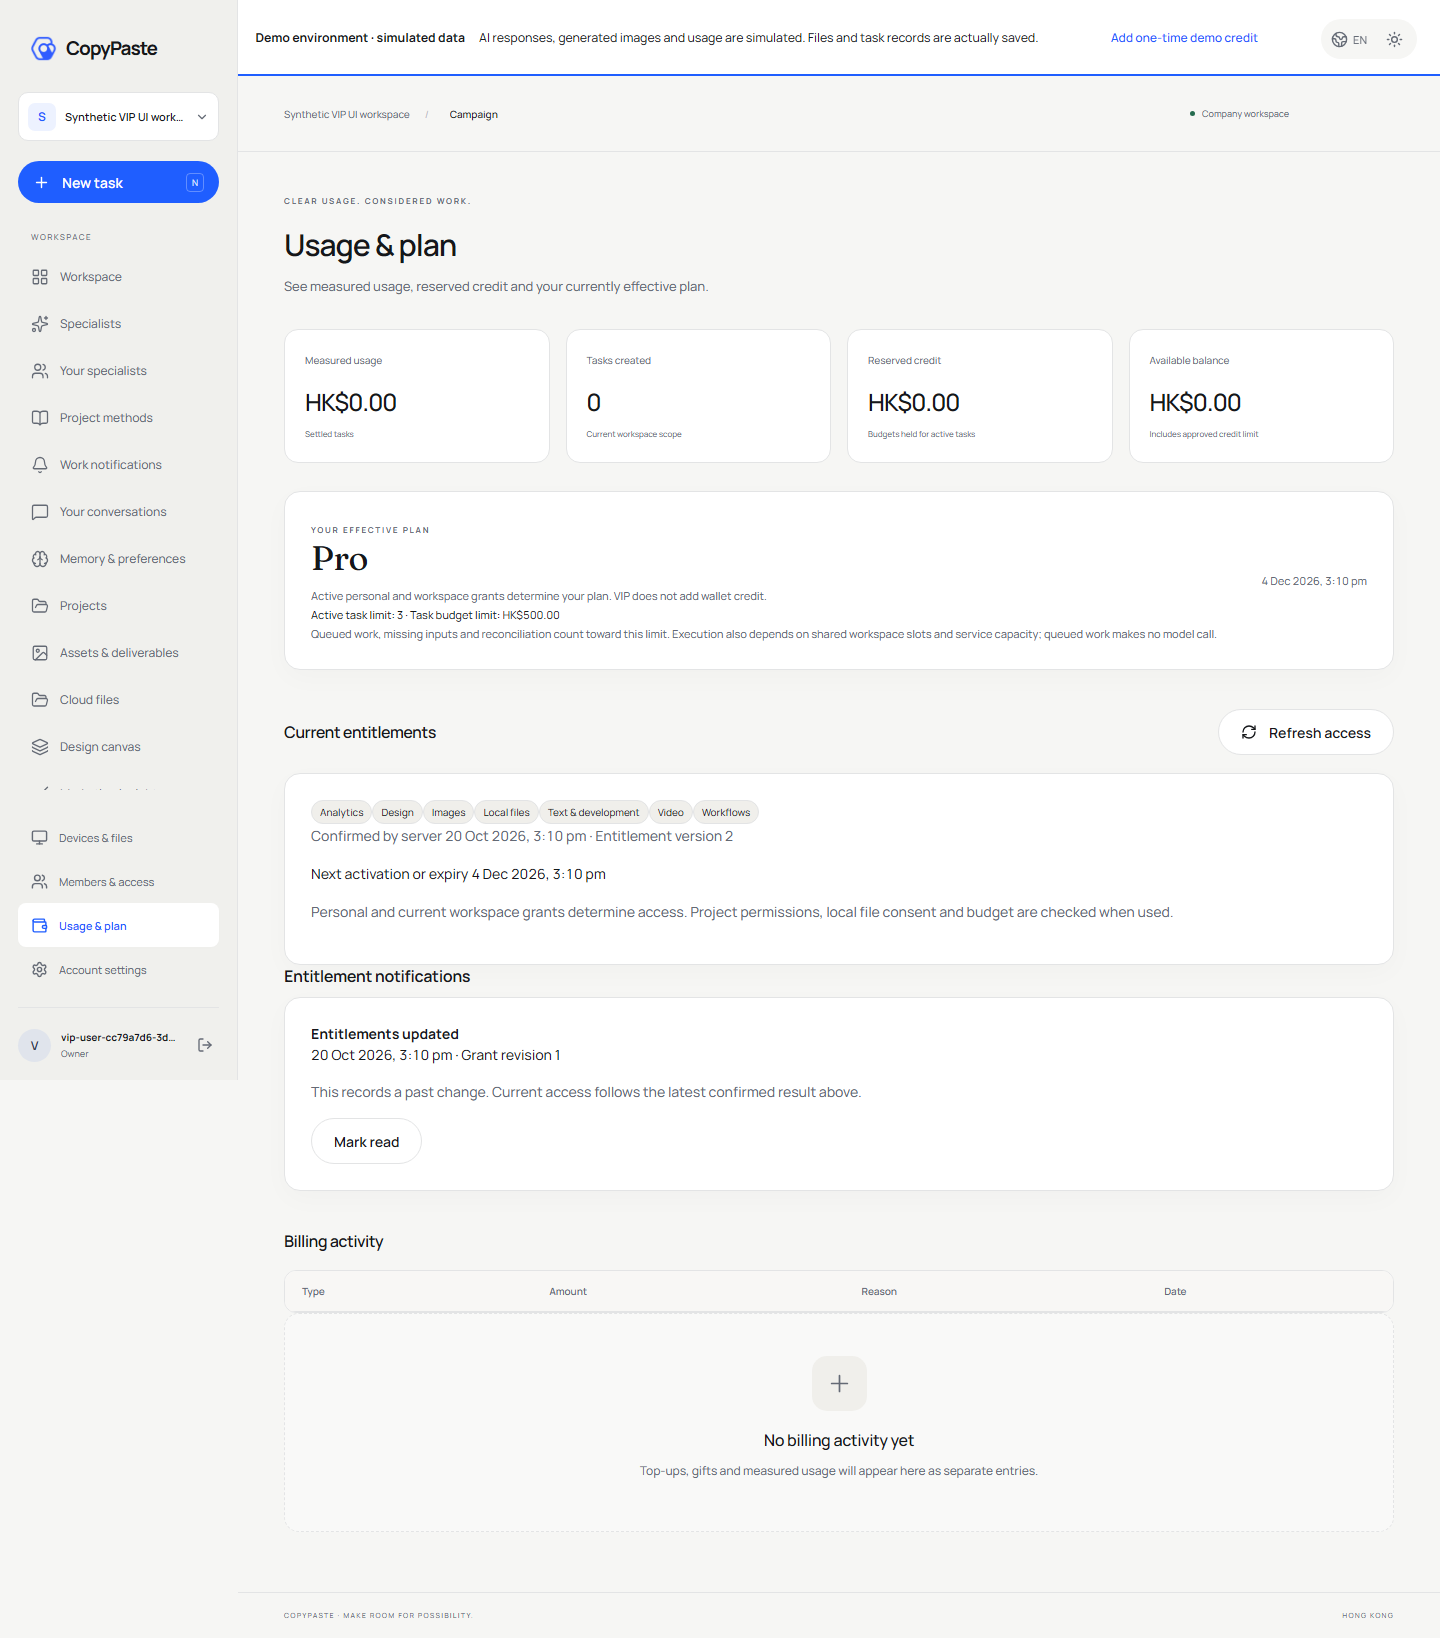
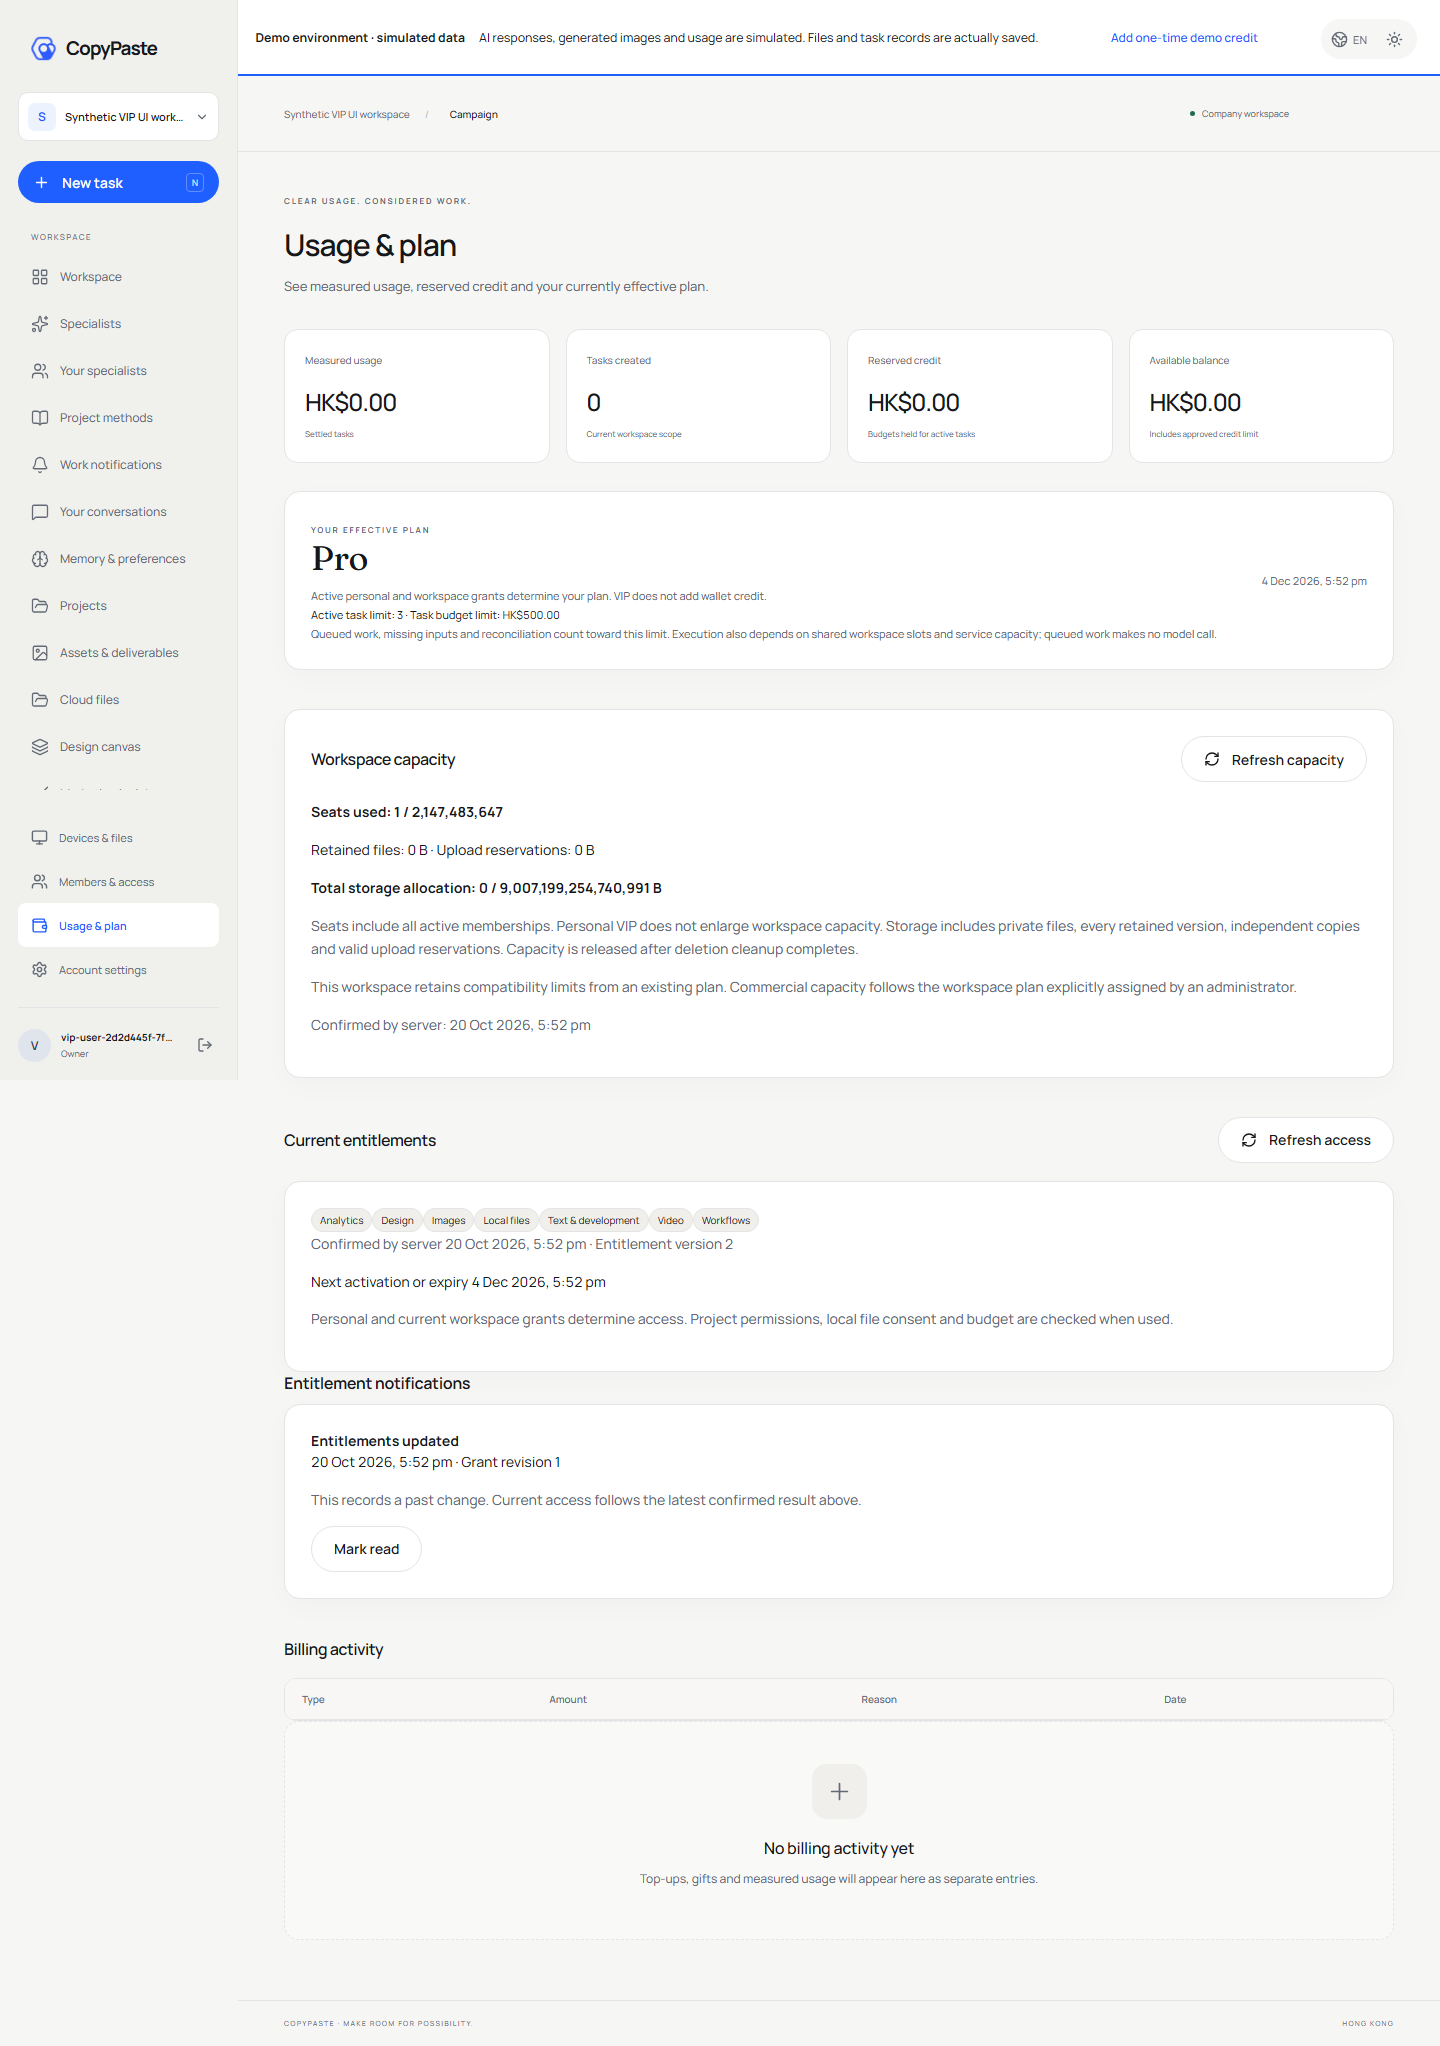
Show confirmed workspace seat and storage capacity

diff --git a/src/resource-usage.tsx b/src/resource-usage.tsx
@@ -1,0 +1,87 @@
+import { useState } from "react";
+import { RefreshCw } from "lucide-react";
+import { DateText, ErrorNotice, Loading, useData, useI18n } from "./ui";
+
+export function ResourceUsage({
+  tenant,
+  revision = 0,
+}: {
+  tenant: string;
+  revision?: number;
+}) {
+  const { t } = useI18n(),
+    [refresh, setRefresh] = useState(0);
+  const { data, error, loading } = useData(
+    `/v1/tenants/${tenant}/resource-usage`,
+    revision + refresh,
+    15000,
+  );
+  return (
+    <section
+      className="card section-block"
+      aria-label={t("企業容量", "Workspace capacity")}
+    >
+      <div className="section-title">
+        <h2>{t("企業容量", "Workspace capacity")}</h2>
+        <button
+          className="button secondary"
+          onClick={() => setRefresh((n) => n + 1)}
+        >
+          <RefreshCw size={16} />
+          {t("更新容量", "Refresh capacity")}
+        </button>
+      </div>
+      <ErrorNotice error={error} />
+      {loading && <Loading />}
+      {data && (
+        <>
+          <p>
+            <strong>
+              {t("已用席位", "Seats used")}: {data.seats.used.toLocaleString()}{" "}
+              / {data.seats.limit.toLocaleString()}
+            </strong>
+          </p>
+          <p>
+            {t("已保留檔案", "Retained files")}:{" "}
+            {BigInt(data.storage.used_bytes).toLocaleString()} B ·{" "}
+            {t("上傳預留", "Upload reservations")}:{" "}
+            {BigInt(data.storage.reserved_bytes).toLocaleString()} B
+          </p>
+          <p>
+            <strong>
+              {t("總存儲佔用", "Total storage allocation")}:{" "}
+              {BigInt(data.storage.total_bytes).toLocaleString()} /{" "}
+              {BigInt(data.storage.limit_bytes).toLocaleString()} B
+            </strong>
+          </p>
+          {(data.seats.over_limit || data.storage.over_limit) && (
+            <p className="notice" role="status">
+              {t(
+                "目前佔用超出方案容量。已有成員和檔案會保留；請完成清理、移除成員或聯絡管理員調整企業方案，再新增佔用。",
+                "Current allocation exceeds this plan. Existing members and files remain available. Complete cleanup, remove a membership or contact an administrator to change the workspace plan before adding capacity.",
+              )}
+            </p>
+          )}
+          <p className="muted">
+            {t(
+              "席位包含所有啟用成員；個人 VIP 不會擴大企業容量。存儲包含私人檔案、每個歷史版本、獨立副本及有效上傳預留。刪除完成清理後才釋放容量。",
+              "Seats include all active memberships. Personal VIP does not enlarge workspace capacity. Storage includes private files, every retained version, independent copies and valid upload reservations. Capacity is released after deletion cleanup completes.",
+            )}
+          </p>
+          {data.legacy_compatibility_limits && (
+            <p className="muted">
+              {t(
+                "此企業沿用既有方案的相容上限。具體商業容量以管理員明確授予的企業方案為準。",
+                "This workspace retains compatibility limits from an existing plan. Commercial capacity follows the workspace plan explicitly assigned by an administrator.",
+              )}
+            </p>
+          )}
+          <p className="muted">
+            {t("伺服器確認時間", "Confirmed by server")}:{" "}
+            <DateText value={data.as_of} />
+          </p>
+        </>
+      )}
+    </section>
+  );
+}

diff --git a/src/entitlements.tsx b/src/entitlements.tsx
@@ -2,6 +2,7 @@ import { useEffect, useState } from "react";
 import { RefreshCw } from "lucide-react";
 import { api } from "./api";
 import { DateText, ErrorNotice, Loading, Money, useI18n } from "./ui";
+import { ResourceUsage } from "./resource-usage";
 
 /** A tenant change unmounts this panel. Requests also carry the API session
  * revision, so a late response cannot repopulate a signed-out user's rights. */
@@ -132,6 +133,7 @@ export function Entitlements({ tenant }: { tenant: string }) {
           <DateText value={data.plan_details.ends_at} />
         )}
       </section>
+      <ResourceUsage key={tenant} tenant={tenant} revision={revision} />
       <section className="section-block">
         <div className="section-title">
           <h2>{t("目前可用權益", "Current entitlements")}</h2>

diff --git a/src/members.tsx b/src/members.tsx
@@ -3,6 +3,7 @@ import { Plus } from "lucide-react";
 import { api, patch, post } from "./api";
 import { completeOperation, operationKey } from "./operation-key";
 import { useWorkspace } from "./context";
+import { ResourceUsage } from "./resource-usage";
 import {
   AsyncForm,
   Badge,
@@ -101,6 +102,7 @@ export function Members() {
           </button>
         }
       />
+      <ResourceUsage key={w.tenant} tenant={w.tenant} revision={refresh} />
       <ErrorNotice error={members.error} />
       {members.loading && !members.data && <Loading />}
       <div className="card table-scroll">

diff --git a/README.en.md b/README.en.md
@@ -334,3 +334,10 @@ The page refreshes within fifteen seconds and at the next boundary. Failures cle
 ![Mobile dark entitlements and notifications](assets/screenshots/68-entitlements-mobile-dark.png)
 
 The native screenshot review exposed a stale plan heading after a rights update. Plan name, task/budget limits and effective rights now refresh together and render only when the subject revision and pinned plan IDs agree. Boundary refresh uses the server confirmation time rather than the device clock.
+
+## Enterprise seat and storage enforcement (stage 48)
+
+Usage and Members now show confirmed workspace seats, retained bytes, pending upload reservations, capacity and over-limit status. The view refreshes manually and every 15 seconds, clearing stale totals after scope/session changes or failed reads. Workspace plans govern shared capacity; personal VIP does not expand it. Downgrades preserve existing resources while the server rejects additional allocation.
+
+![Actual workspace capacity](assets/screenshots/71-workspace-resource-usage.png)
+![Traditional Chinese dark narrow layout](assets/screenshots/73-resource-capacity-mobile-dark.png)

diff --git a/README.md b/README.md
@@ -361,3 +361,10 @@ flowchart LR
 ![繁中深色权益与通知](assets/screenshots/68-entitlements-mobile-dark.png)
 
 本轮实际原生截图发现旧方案标题不会随新权益更新，现已修复：方案名、并发/预算与有效权益共同刷新，比较主体版本和固定方案集合后才显示；下一边界按服务端确认时间安排，避免本机时钟偏差。
+
+## 企业席位与存储执行（阶段 48）
+
+用量页和成员页显示服务器确认的企业席位、保留文件、上传预留、总容量及超额提示。每 15 秒及手动刷新；工作区、会话变化或读取失败时清空旧统计。容量由企业方案控制，个人 VIP 不扩容。降级不删除已有成员或文件；新增占用由服务端拒绝。
+
+![实际企业容量](assets/screenshots/71-workspace-resource-usage.png)
+![繁中深色窄屏](assets/screenshots/73-resource-capacity-mobile-dark.png)
